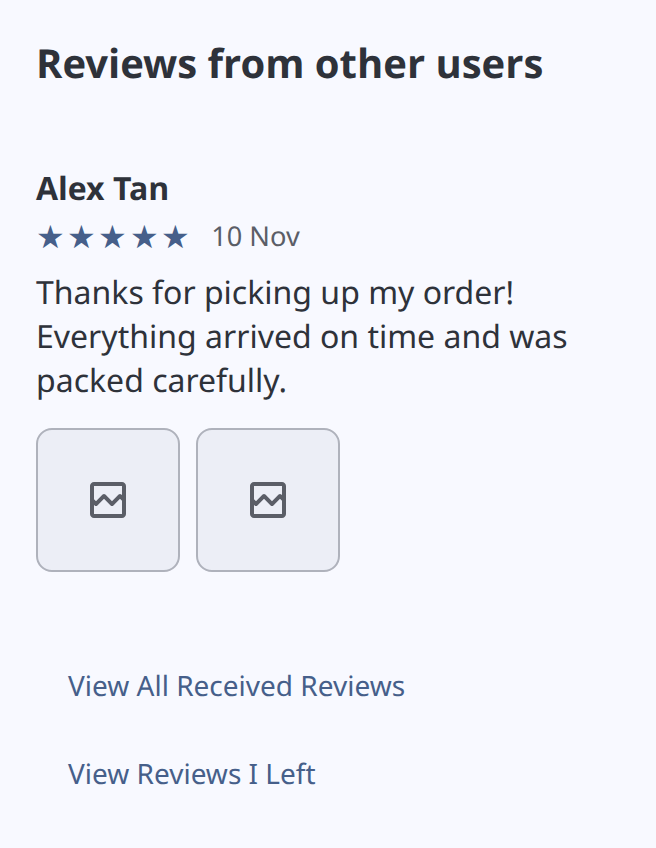
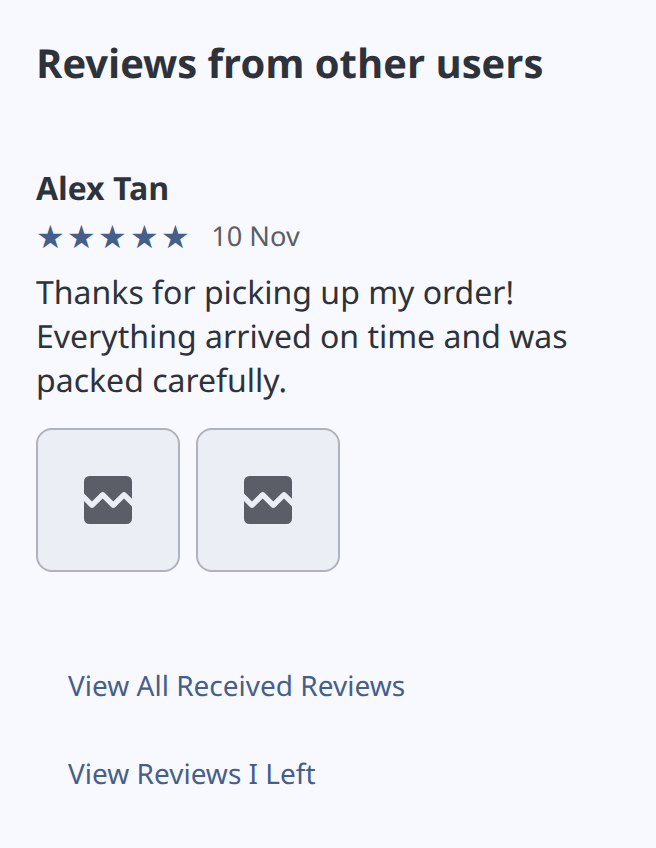
fix(review): make unavailable photo thumbnails visibly broken

Changed region(s): [[0.3659, 0.5519, 0.4573, 0.6439], [0.122, 0.5519, 0.2134, 0.6439]]

diff --git a/frontend/src/lib/components/review/ReviewPhotos.svelte b/frontend/src/lib/components/review/ReviewPhotos.svelte
@@ -3,7 +3,7 @@
 	import { authService, reviewApi } from '$lib/services';
 	import { resolve } from '$app/paths';
 	import { Icon } from 'm3-svelte';
-	import brokenImageIcon from '@ktibow/iconset-material-symbols/broken-image-outline-rounded';
+	import brokenImageIcon from '@ktibow/iconset-material-symbols/broken-image-rounded';
 	import type { ReviewPhotoRecord } from '$lib/services/review/reviewApi';
 
 	// Thumbnails of the photos attached to one review. The URLs are short-lived
@@ -24,7 +24,7 @@
 						alt={`Review photo ${index + 1}`}
 					>
 						{#snippet fallback()}
-							<Icon icon={brokenImageIcon} size={24} aria-hidden="true" />
+							<Icon icon={brokenImageIcon} size={32} aria-hidden="true" />
 						{/snippet}
 					</SignedImage>
 				</a>
